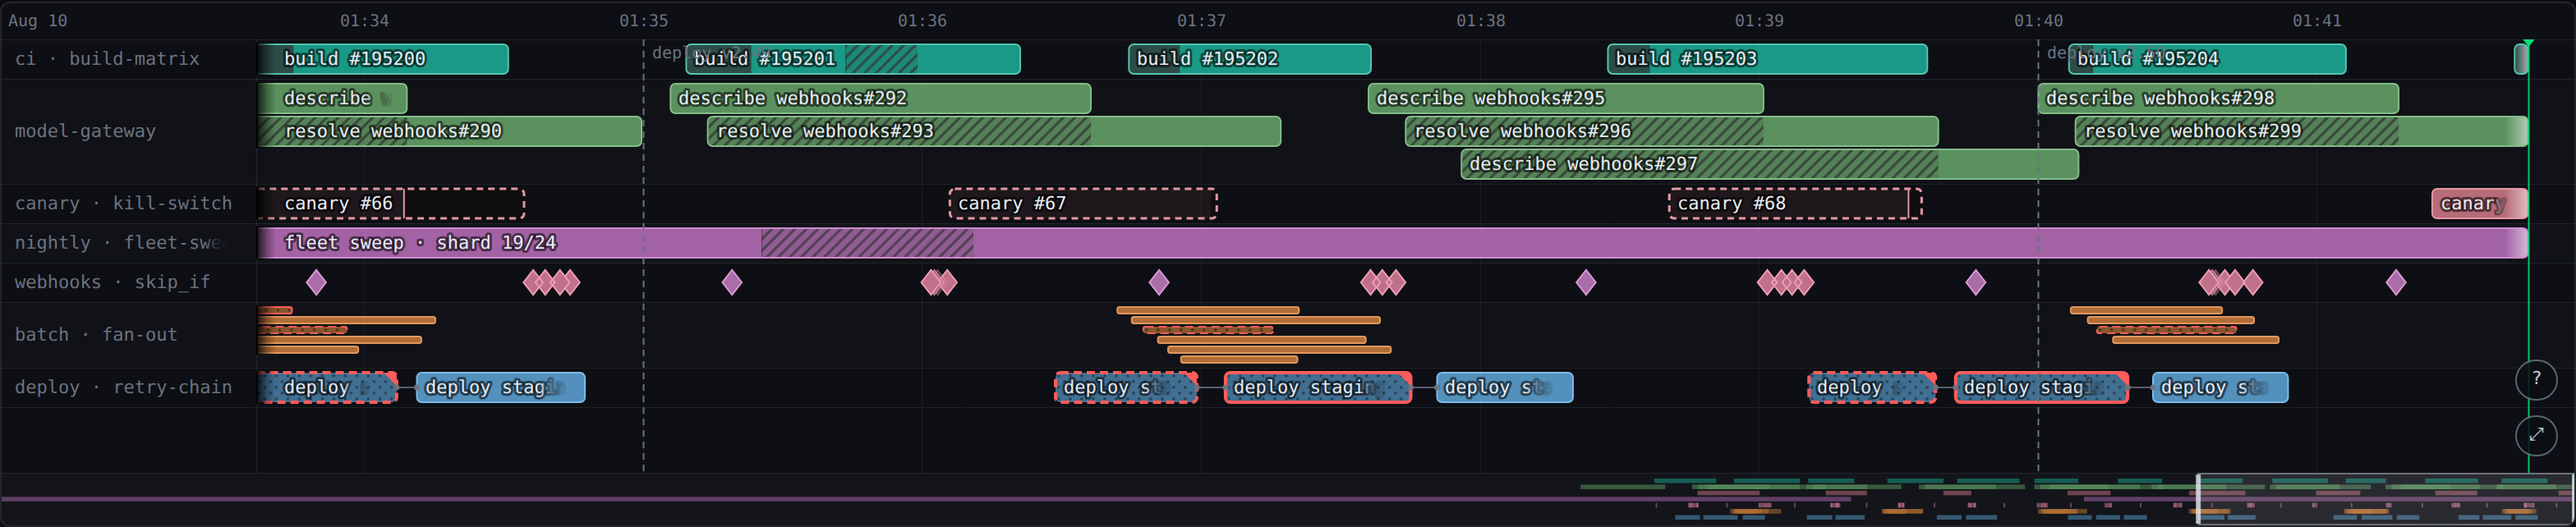
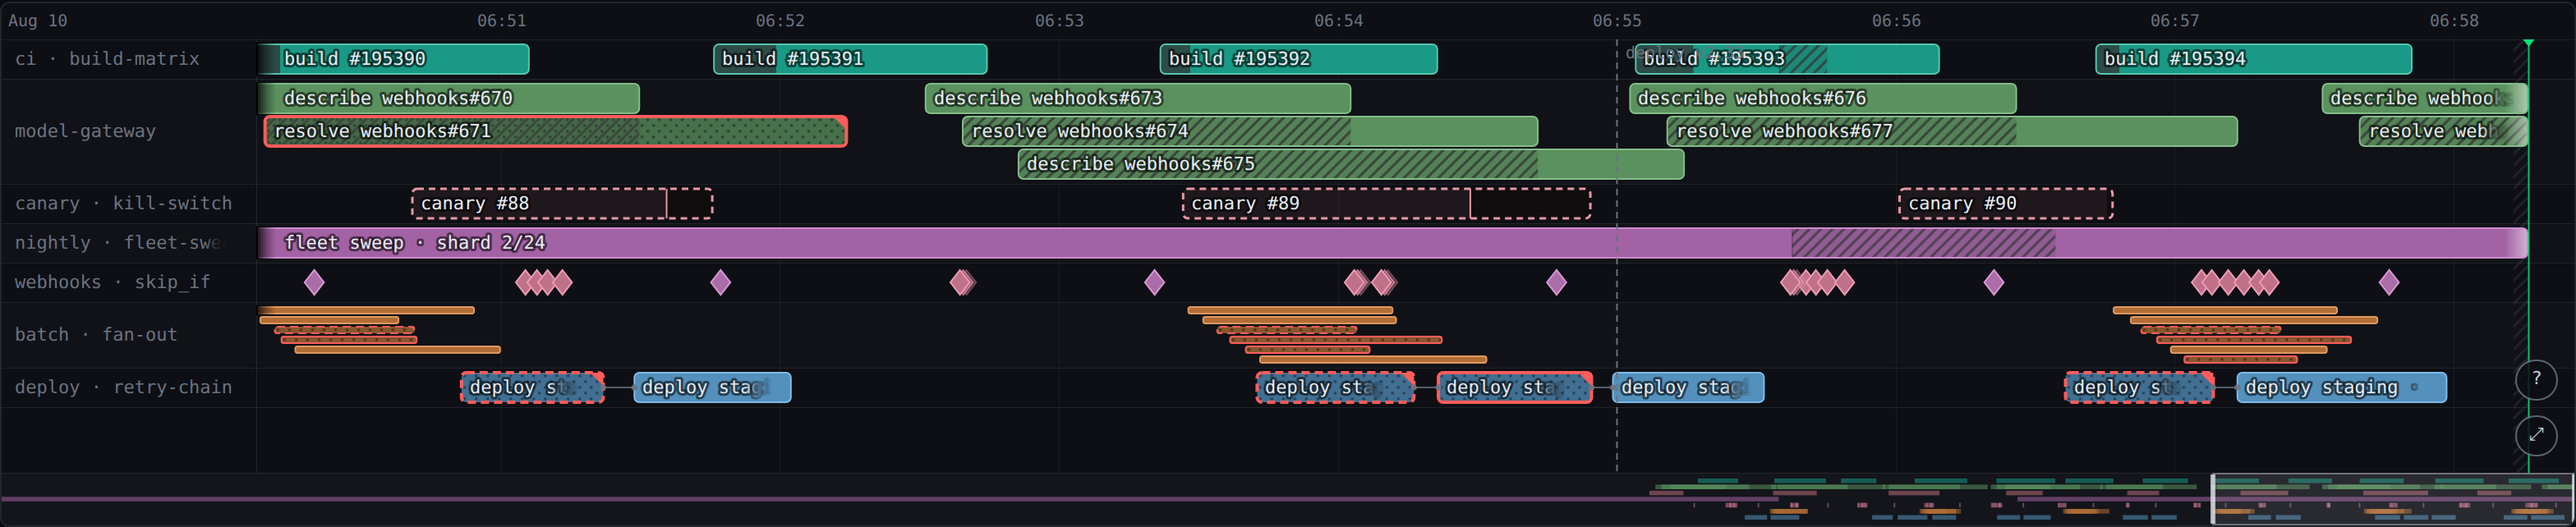
timeline-view: sprite every pip; fix the bench ramp that reported a floor as a ceiling
Measured on an M1 (bench/bench-gl.html): sprite blit sustains 29977
markers per frame at 30fps against the batched path's 4571, and GL
instanced quads sustain 799544. The solid-pip carve-out and the
48-marker bake gate both came from a software-rasterizer micro-benchmark
that the sustained numbers reverse, so both are gone and pipSprite no
longer returns null.

The benchmark itself had two defects the M1 run exposed. The ramp
deadline was not reset when a sample sent the row back to ramping, so
every resumed round expired immediately and the GL path row resolved at
97k markers sustaining 120fps — four times the target — with the table
printing it as a plain result. A row that samples outside the band is
now flagged as a floor. And one shared size cap either strangles the
cheap methods or lets the expensive one allocate a gigabyte, so each
method declares its per-marker bytes and gets its own ceiling.

Claude-Session: https://claude.ai/code/session_012wEXXAZTdnRqXg4gii8xhV

diff --git a/src/ui/timeline-view.ts b/src/ui/timeline-view.ts
@@ -422,22 +422,10 @@ const EDGE_SHADOW_ALPHA = 0.85;
 const MAX_DPR = 3;
 // Cluster 3-stack ghost alphas (front draws at 1).
 const LANE_FIT_CACHE_MAX = 512;
-// Diamonds per batched path. Measured in Chromium (2400x1200 canvas, 1200
-// diamonds): 2.50 us/marker one per path, 1.75 at 8-32 per path, 2.75 at 256
-// and 8.08 with all 1200 in ONE path — a giant path costs far more to
-// rasterize than the calls it saves. Batching is a win only inside that
-// window, so the flush is capped rather than "one path per lane".
-const CLUSTER_BATCH_MAX = 32;
 // Baked pip glyphs kept alive (see pipSprite). Generous enough to hold every
 // (style, radius, dpr) a chart cycles through, bounded so a lane-height tween
 // walking radii cannot grow it forever.
 const PIP_SPRITE_CACHE_MAX = 96;
-// Markers of one baked glyph a frame must hold before baking it is worth
-// doing. A bake is ~82 us and saves ~0.55 us/marker, so it repays at ~150
-// markers in ONE frame; at 48 it repays within about three, which a chart
-// dense enough to hit it will always draw. Below that the live path wins
-// outright, and a static chart with a handful of pips never bakes at all.
-const PIP_SPRITE_MIN_MARKERS = 48;
 const CLUSTER_MID_ALPHA = 0.65;
 const CLUSTER_BACK_ALPHA = 0.35;
 // The minimap strip's height (CSS px) — the plot canvas cedes this band
@@ -1922,28 +1910,16 @@ export class TimelineViewElement extends HTMLElement {
   }
 
   /**
-   * Baked pip glyphs, keyed by style + radius + dpr + variant. ONLY the
-   * glyphs whose per-marker cost is real are sprited: a dashed
-   * (cancelled) pip re-derives and applies a dash pattern per marker, and
-   * a cluster's 3-stack is six path ops. A plain solid pip is deliberately
-   * NOT sprited — batched paths beat drawImage for it. Measured in
-   * Chromium, 1200 markers on a 2400x1200 canvas, us/marker:
+   * Baked pip glyphs, keyed by style + radius + dpr + variant. EVERY pip
+   * comes off a sprite, including a plain solid one. Sustained-throughput
+   * measurement on an M1, markers per frame holding 30fps (bench/bench-gl.html):
    *
-   *   solid   batched 0.75  |  one path each 1.14  |  sprite 1.56
-   *   dashed  per-path 1.80  |  sprite 1.24
-   *   stack   batched 1.81  |  sprite 1.29
+   *   sprite blit 29977  |  batched path 4571  |  one path each 5100
    *
-   * Measured on a software rasterizer (headless, no GPU), which is the
-   * pessimistic case for drawImage — a GPU-backed canvas blits cheaper,
-   * so these are lower bounds on the sprite's advantage, never upper ones.
-   *
-   * BAKING IS NOT FREE, and it is the cost a sprite table usually hides:
-   * 82 us for a dashed pip, 84 for a stack, nearly all of it creating the
-   * canvas and its context. Against a saving of ~0.55 us/marker that is
-   * ~150 markers before a sprite has paid for itself, so a bake happens
-   * only once a frame actually holds PIP_SPRITE_MIN_MARKERS of that glyph
-   * — below that the live path is genuinely cheaper and is what runs.
-   * Returns null to say exactly that: not cached, and not worth baking.
+   * A bake is ~82 us, once per (style, radius, dpr), and repays inside the
+   * first frame that draws a few hundred of them. Do not reintroduce a
+   * minimum-markers gate or a solid-pip carve-out: both came from a
+   * software-rasterizer micro-benchmark that the sustained numbers reverse.
    */
   private pipSprites = new Map<string, { img: HTMLCanvasElement; w: number; h: number; ax: number; ay: number }>();
   private styleIds = new WeakMap<ResolvedStyle, string>();
@@ -1965,12 +1941,11 @@ export class TimelineViewElement extends HTMLElement {
    * Radius is quantized to a half pixel so a lane-height tween re-uses
    * one sprite instead of baking a new one every frame.
    */
-  private pipSprite(style: ResolvedStyle, radius: number, stack: boolean, markers: number): { img: HTMLCanvasElement; w: number; h: number; ax: number; ay: number } | null {
+  private pipSprite(style: ResolvedStyle, radius: number, stack: boolean): { img: HTMLCanvasElement; w: number; h: number; ax: number; ay: number } {
     const r = Math.round(radius * 2) / 2;
     const key = `${this.styleId(style)}|${r}|${this.dpr}|${stack ? 'k' : 'p'}`;
     const hit = this.pipSprites.get(key);
     if (hit) return hit;
-    if (markers < PIP_SPRITE_MIN_MARKERS) return null;
     const rx = r * 0.78;
     const step = stack ? Math.max(1, Math.min(2, r * 0.35)) : 0;
     const pad = 3;
@@ -4703,8 +4678,7 @@ export class TimelineViewElement extends HTMLElement {
    * hour of traffic puts ~400 on screen, which measured as the single
    * largest slice of frame time (31 ms of a 59 ms draw budget across a
    * load). The whole stack bakes into one image per (style, radius, dpr),
-   * so a marker costs one blit: 1.29 us against 1.81 batched (pipSprite
-   * carries the measurements).
+   * so a marker costs one blit (pipSprite carries the measurements).
    *
    * A hovered marker or an emphasis stem is per-marker geometry, so those
    * fall back to drawCluster — and draw AFTER the blits, which is where
@@ -4715,8 +4689,8 @@ export class TimelineViewElement extends HTMLElement {
     if (ncs.length === 0) return;
     const t = this.theme;
     let fallback: NCluster[] | null = null;
-    // Grouped by the glyph they would blit, because whether baking pays
-    // is a question about the SIZE of each group.
+    // Grouped by the glyph they blit, so one bake and one transform switch
+    // serve the whole group.
     let groups: Map<string, { style: ResolvedStyle; r: number; at: NCluster[] }> | null = null;
     for (const c of ncs) {
       const style = this.resolved(c.catKey, c.state, null);
@@ -4738,11 +4712,7 @@ export class TimelineViewElement extends HTMLElement {
     }
     if (groups) {
       for (const g of groups.values()) {
-        const sprite = this.pipSprite(g.style, g.r, true, g.at.length);
-        if (!sprite) {
-          for (const c of g.at) this.drawCluster(ctx, c);
-          continue;
-        }
+        const sprite = this.pipSprite(g.style, g.r, true);
         const blits: { sprite: typeof sprite; cx: number; cy: number }[] = [];
         for (const c of g.at) {
           const p = this.clusterPos(c);
@@ -4766,46 +4736,15 @@ export class TimelineViewElement extends HTMLElement {
     if (!geo) return;
     const cy = geo.y + geo.th / 2;
     const hovered = this.hoverClusterId ?? this.hoverIntervalId;
-    const emphasis = style.glyph === 'bang' || style.border === this.theme.emphasis;
-    const dashed = style.dash !== null && style.dash.length > 0;
     const pips = geo.pips;
     const hoverAt = hovered === null ? -1 : pips.findIndex((p) => c.members[p.mark.from].id === hovered);
-    const sprite = dashed || emphasis ? this.pipSprite(style, geo.r, false, pips.length) : null;
-    if (sprite) {
-      // Per-marker dash setup is the expensive glyph, so once there are
-      // enough of them it comes off a baked sprite (1.24 us against 1.80
-      // drawn live — see pipSprite).
-      this.blitPips(
-        ctx,
-        pips.map((p) => ({ sprite, cx: p.cx, cy })),
-      );
-    } else if (dashed || emphasis) {
-      for (const p of pips) this.drawInstant(ctx, style, p.cx, cy, geo.th, false);
-    } else {
-      // One cheap path per pip, so BATCHING beats blitting here (0.75 us
-      // against 1.56): the whole run goes down as subpaths of one path.
-      ctx.fillStyle = style.pattern === 'outline' ? withAlpha(style.fill, 0.15) : style.fill;
-      ctx.strokeStyle = style.border;
-      ctx.lineWidth = 1;
-      const r = geo.r;
-      const rx = r * 0.78;
-      for (let i = 0; i < pips.length; i += CLUSTER_BATCH_MAX) {
-        const to = Math.min(i + CLUSTER_BATCH_MAX, pips.length);
-        ctx.beginPath();
-        for (let k = i; k < to; k++) {
-          const cx = pips[k].cx;
-          ctx.moveTo(cx, cy - r);
-          ctx.lineTo(cx + rx, cy);
-          ctx.lineTo(cx, cy + r);
-          ctx.lineTo(cx - rx, cy);
-          ctx.closePath();
-        }
-        ctx.fill();
-        ctx.stroke();
-      }
-    }
+    const sprite = this.pipSprite(style, geo.r, false);
+    this.blitPips(
+      ctx,
+      pips.map((p) => ({ sprite, cx: p.cx, cy })),
+    );
     // The hovered mark redraws whole, on top: its ring and any emphasis
-    // stem are per-marker geometry the batch and the sprite both omit.
+    // stem are per-marker geometry the sprite omits.
     if (hoverAt >= 0) this.drawInstant(ctx, style, pips[hoverAt].cx, cy, geo.th, true);
   }
 

diff --git a/bench/bench-gl.html b/bench/bench-gl.html
@@ -34,7 +34,14 @@ const W = CSS_W * DPR, H = CSS_H * DPR;
 const R = 8, RX = R * 0.78, PAD = 3;
 const FILL = '#7a94b7', BORDER = '#97adcd';
 const BATCH = 32;             // the component's CLUSTER_BATCH_MAX
-const N_CAP = 1_000_000;      // memory guard: the widest layout is 264 B/marker
+// Memory guard. Each method declares its per-marker allocation and gets its
+// own ceiling out of one budget, because they differ by 30x: the instanced
+// path uploads 8 B per marker and the GL path allocates 264 B (96 position +
+// 48 colour + 120 index). One shared cap either strangles the cheap methods
+// on a fast GPU or lets the expensive one allocate a gigabyte.
+const N_CAP_HARD = 4_000_000;
+const MEM_BUDGET = 384 * 1024 * 1024;
+const capFor = (bytes) => Math.min(N_CAP_HARD, Math.floor(MEM_BUDGET / (bytes + 8)));
 
 const SW = Math.ceil(RX * 2 + PAD * 2), SH = Math.ceil(R * 2 + PAD * 2);
 const SPRITE_W = SW * DPR, SPRITE_H = SH * DPR;
@@ -473,17 +480,23 @@ function span9Patch(n, pts, hatched) {
 	}
 }
 
-// [label, draw(n, positions), isGl] — isGl routes the row through the GPU
-// timer when one exists, which is the only way to see past vsync.
+// [label, draw(n, positions), isGl, bytesPerMarker] — isGl routes the row
+// through the GPU timer when one exists, which is the only way to see past
+// vsync; the byte count sizes that row's own ceiling (see capFor).
+const GL_BYTES = {
+	'gl instanced quads': 8,
+	'gl vert+index 4v/6i': 88,
+	'gl path 12v/30i': 264,
+};
 const METHODS = [
-	['canvas2d path, batched 32', c2Batched, false],
-	['canvas2d path, one each', c2PerPath, false],
-	['canvas2d sprite blit', c2Blit, false],
-	...Object.entries(glMethods).map(([name, fn]) => [name, fn, true]),
-	['span path, solid', (n, p) => spanPath(n, p, false), false],
-	['span 9-patch, solid', (n, p) => span9Patch(n, p, false), false],
-	['span path, hatched', (n, p) => spanPath(n, p, true), false],
-	['span 9-patch, hatched', (n, p) => span9Patch(n, p, true), false],
+	['canvas2d path, batched 32', c2Batched, false, 0],
+	['canvas2d path, one each', c2PerPath, false, 0],
+	['canvas2d sprite blit', c2Blit, false, 0],
+	...Object.entries(glMethods).map(([name, fn]) => [name, fn, true, GL_BYTES[name] ?? 0]),
+	['span path, solid', (n, p) => spanPath(n, p, false), false, 0],
+	['span 9-patch, solid', (n, p) => span9Patch(n, p, false), false, 0],
+	['span path, hatched', (n, p) => spanPath(n, p, true), false, 0],
+	['span 9-patch, hatched', (n, p) => span9Patch(n, p, true), false, 0],
 ];
 
 
@@ -579,7 +592,7 @@ function ensure(n) {
  * Ramp `draw` to the 30fps band, freeze, and sample a sustained window.
  * Resolves { n, fps, frames, seconds, timing, pinned }.
  */
-function measure(draw, isGl, note) {
+function measure(draw, isGl, note, cap) {
 	return new Promise((resolve) => {
 		// GPU timing only helps the GL methods; canvas2d work is CPU-side
 		// and the extension would time an empty GPU queue.
@@ -598,7 +611,7 @@ function measure(draw, isGl, note) {
 		let lastNote = 0;
 		const sample = [];
 		let sampleStart = 0;
-		const rampStart = performance.now();
+		let rampStart = performance.now();
 
 		const tick = (rafTs) => {
 			const ts = useGpu ? performance.now() : (rafTs ?? performance.now());
@@ -649,9 +662,9 @@ function measure(draw, isGl, note) {
 						const proximity = Math.min(1, Math.max(0, (fps - edge) / edge));
 						const floor = CONTROL_STEP_FLOOR * proximity;
 						const clamp = useGpu ? CONTROL_STEP_CLAMP : CONTROL_STEP_CLAMP_RAF;
-						nF = Math.min(N_CAP, nF * (1 + Math.min(clamp, Math.max(floor, gain))));
+						nF = Math.min(cap, nF * (1 + Math.min(clamp, Math.max(floor, gain))));
 						n = Math.max(1, Math.round(nF));
-						if (nF >= N_CAP - 0.5) pinned = true;
+						if (nF >= cap - 0.5) pinned = true;
 						// Throttled: writing progress every ramp frame costs a
 						// layout and a paint that the frozen sample does not pay,
 						// so the ramp measures its own instrumentation and stops
@@ -687,6 +700,14 @@ function measure(draw, isGl, note) {
 							phase = 'ramp';
 							ctrl.length = 0;
 							sample.length = 0;
+							// The deadline is PER ramp round. Left un-reset it
+							// has already expired by the time the first sample
+							// ends, so every resumed round flipped straight back
+							// to sampling after one control window and the row
+							// reported a floor as a ceiling: the GL path row
+							// resolved at 97k markers sustaining 120fps, four
+							// times the target, and the table printed it plain.
+							rampStart = ts;
 							note(`n=${n} sustained ${fps.toFixed(1)} fps — resuming ramp`);
 						} else {
 							resolve({
@@ -723,7 +744,7 @@ function thermalWarmup(note) {
 			const dt = prev === null ? 0 : ts - prev;
 			prev = ts;
 			if (dt > 0 && 1000 / dt > TARGET_FPS + BAND_FPS) {
-				nF = Math.min(N_CAP, nF * 1.01);
+				nF = Math.min(capFor(METHODS[0][3]), nF * 1.01);
 				n = Math.max(1, Math.round(nF));
 			}
 			const left = (thermalMs - (ts - start)) / 1000;
@@ -741,8 +762,8 @@ async function run() {
 	const out = document.getElementById('out');
 	const note = (what) => { out.textContent = what; };
 	await thermalWarmup(note);
-	for (const [name, draw, isGl] of METHODS) {
-		const r = await measure(draw, !!isGl, (what) => note(`${name}: ${what}`));
+	for (const [name, draw, isGl, bytes] of METHODS) {
+		const r = await measure(draw, !!isGl, (what) => note(`${name}: ${what}`), capFor(bytes));
 		rows.push({ name, ...r });
 		note(`${rows.length}/${METHODS.length} — ${name}: ${r.n} @ ${r.fps.toFixed(1)} fps`);
 	}
@@ -759,11 +780,15 @@ async function run() {
 				// smallest size, so its fixed per-frame cost — not the markers —
 				// is what is being measured. Saying so beats printing a marker
 				// count that has nothing to do with markers.
+				// A row that sampled outside the band never converged, so its
+				// marker count is not a ceiling and must not read as one.
 				const flag = r.pinned
 					? '  <- pinned at the size cap, never reached the band'
 					: r.n <= N_MIN
 						? '  <- floored: over budget at the SMALLEST size; fixed per-frame cost dominates, not the markers'
-						: '';
+						: r.fps > TARGET_FPS + BAND_FPS
+							? `  <- NEVER CONVERGED after ${r.reramps} re-ramps: sustained ${r.fps.toFixed(0)} fps, so this is a FLOOR, not a ceiling`
+							: '';
 				return `  ${r.name.padEnd(26)} ${String(r.n).padStart(9)}  ${r.fps.toFixed(1).padStart(6)}  ${String(rate).padStart(11)}   ${r.frames}f/${r.seconds.toFixed(1)}s ${r.timing}${flag}`;
 			})
 			.join('\n');

diff --git a/CLAUDE.md b/CLAUDE.md
@@ -153,7 +153,7 @@ showcase/                  ← the COMPONENT GALLERY: one section per DOM-bound 
 └── assets.d.ts            ← ambient *.css/*.wgsl/*.glsl decls for the nested project's own type-check
 docs/timeline-view.png     ← the README's <timeline-view> picture. Captured from the built showcase by scripts/screenshot-showcase.mjs (playwright + the preinstalled chromium), so it is the REAL component and cannot drift; regenerate after a visual change: pnpm build:showcase && node scripts/screenshot-showcase.mjs
 scripts/screenshot-showcase.mjs ← that capture (fails on any page error rather than writing a half-upgraded chart)
-bench/bench-gl.html        ← how many instant pips one frame can draw and still hold 30fps, per draw method: canvas2d path (batched / one each), canvas2d sprite blit, GL instanced quads, GL vert+index 4v/6i. Run: `NODE_PATH=/opt/node22/lib/node_modules node scripts/run-bench.mjs bench/bench-gl.html`. It prints the GL renderer — a GPU-less runner falls back to SwiftShader and every GL row is then a software rasterizer's, so never quote one without it
+bench/bench-gl.html        ← how many instant pips one frame can draw and still hold 30fps, per draw method: canvas2d path (batched / one each), canvas2d sprite blit, GL instanced quads, GL vert+index 4v/6i, GL path 12v/30i (the diamond as triangles, no texture), and spans path vs 9-patch. Run: `NODE_PATH=/opt/node22/lib/node_modules node scripts/run-bench.mjs bench/bench-gl.html`. It prints the GL renderer — a GPU-less runner falls back to SwiftShader and every GL row is then a software rasterizer's, so never quote one without it. On an M1 the ordering is GL quads 800k > sprite blit 30k > canvas2d path 4.6k markers/frame; the software numbers invert that, which is why no drawing decision may be made from a SwiftShader run
 llms-header.txt            ← preamble for combined llms.txt
 ts0.json                   ← ts0 config (js library target, .wgsl/.glsl text loaders)
 scripts/build-llms.mjs     ← assembles dist/llms.txt after the ts0 build
